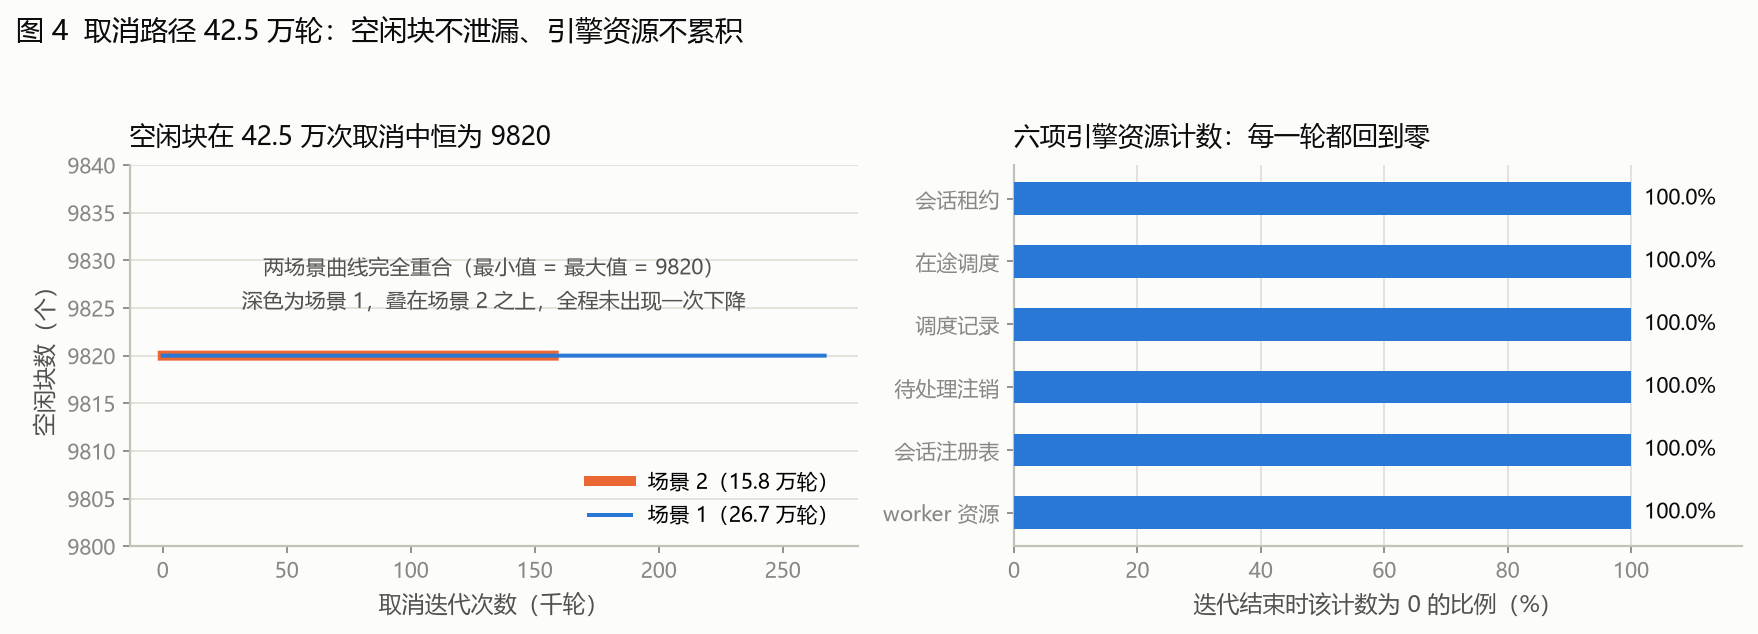
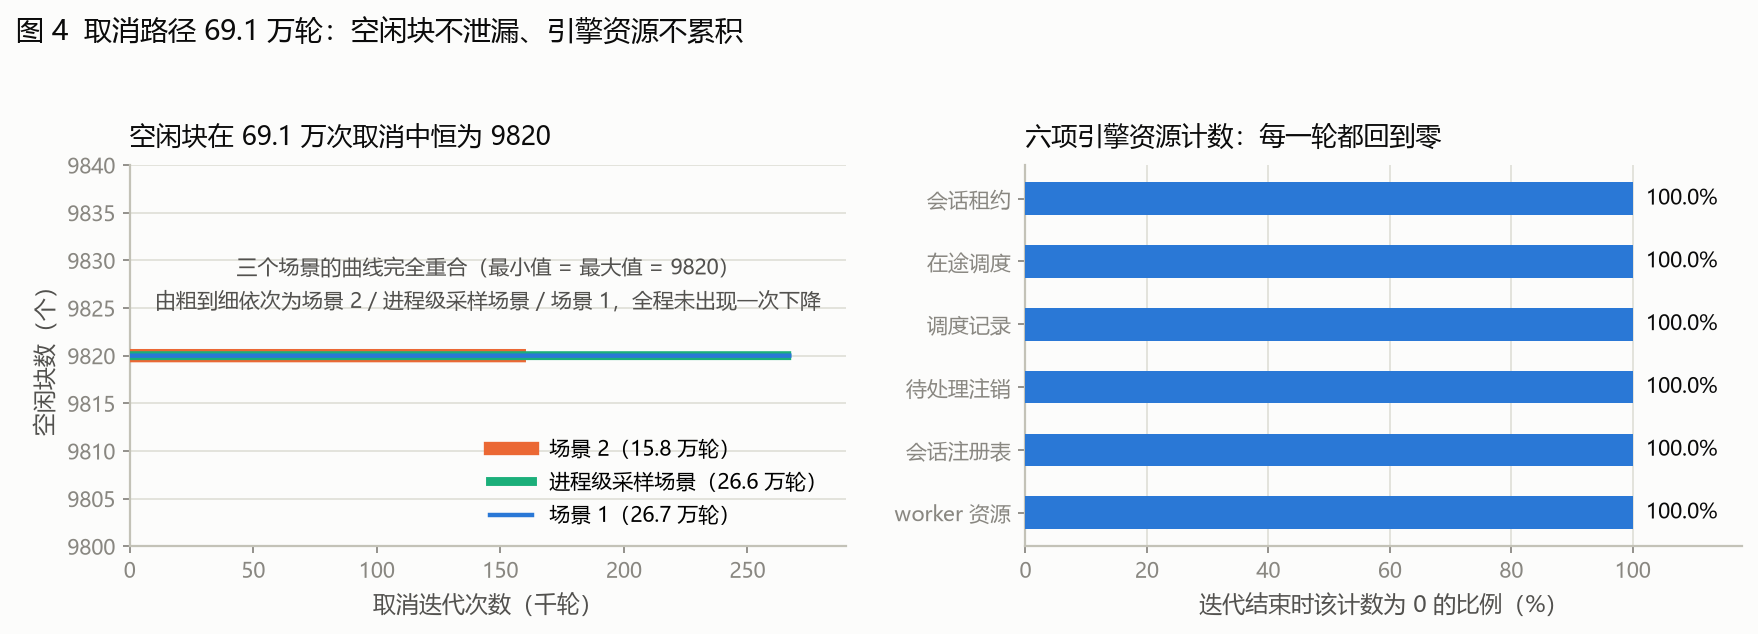
SOAK_REPORT 改为可独立发布的正式版：合并取消路径两次运行、补测试目的/设置/观测手段与执行时间表；图 4 并三场景

diff --git a/README.md b/README.md
@@ -13,9 +13,9 @@ OneRec / vllm-gr decode 后 CPU 性能优化的实验记录与归因分析。
 ## 稳定性与长跑测试
 
 `beam_search_v1` 会话生命周期（取消 / 暂停与恢复 / 编号跨次复用）的长时间稳定性测试，六个批次、
-请求循环合计约 26 小时。结论：**未发现需要修复的缺陷**。
+单次最长连续运行 5 小时，累计 352,916 次正常请求与 140.9 万次取消。结论：**未发现需要修复的缺陷**。
 
-- [长跑稳定性测试报告（图表版）](SOAK_REPORT.md) —— **结论前置**，10 张图（含五小时全样本时序）佐证「不泄漏 / 不阻塞 / 不漂移」，附精确统计表与未解释项
+- [长跑稳定性测试报告](SOAK_REPORT.md) —— **正式版**，**结论前置**，10 张图（含五小时全样本时序）佐证「不泄漏 / 不阻塞 / 不漂移」，附精确统计表、测试流程与未解释项
 - [长跑稳定性测试结果摘要](SOAK_SUMMARY.md) —— 一页结论：目的、设置（离线 / 单进程与多进程 / 并发 1）、结果与归因
 - [长跑稳定性测试完整报告](SOAK_RESULTS.md) —— 逐批次的实现方式、逐项判据实测值与归因分析
 - [长跑测试方案](SOAK_PLAN.md) —— 各批次的设计依据、判据定义与已知盲区
